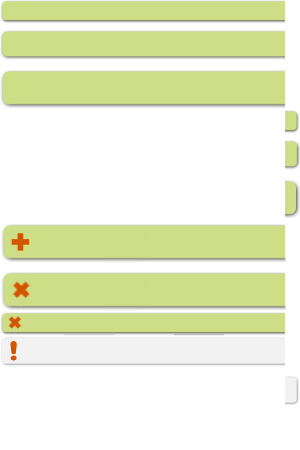
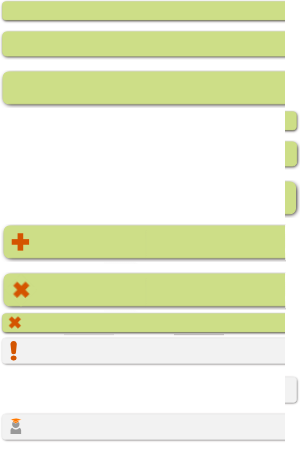
Added a special button for the 'I teach this course' action

Changed region(s): [[0.03, 0.9022, 0.93, 0.9956]]

diff --git a/src/ututi/public/style.css b/src/ututi/public/style.css
@@ -262,7 +262,7 @@ button.btnMedium {
 }
 
 button.btnMedium span {
-    padding: 5px 0 0 15px;
+    padding: 7px 0 0 15px;
     height: 26px;
     background: transparent url("img/buttons_bg_split.png") no-repeat left -30px;
 }
@@ -300,7 +300,14 @@ button.btnMedium.btnExclamation span {
     padding-left: 25px;
 }
 
-button.btnMedium.btnExclamation {
+button.btnMedium.btnTeacher span {
+    background-position: left -411px;
+    color: #d45500;
+    padding-left: 25px;
+}
+
+button.btnMedium.btnExclamation,
+button.btnMedium.btnTeacher {
     background-position: right -374px;
 }
 
